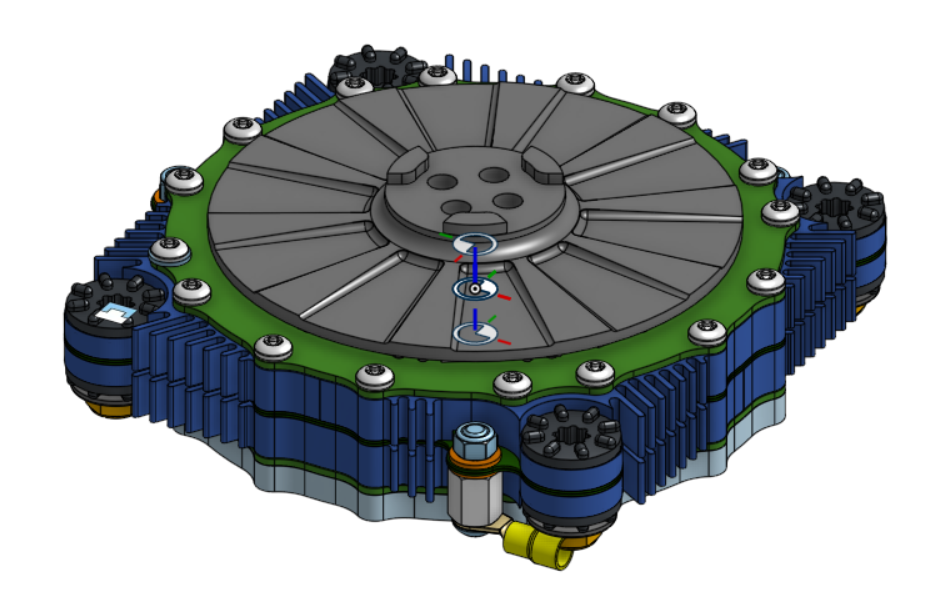
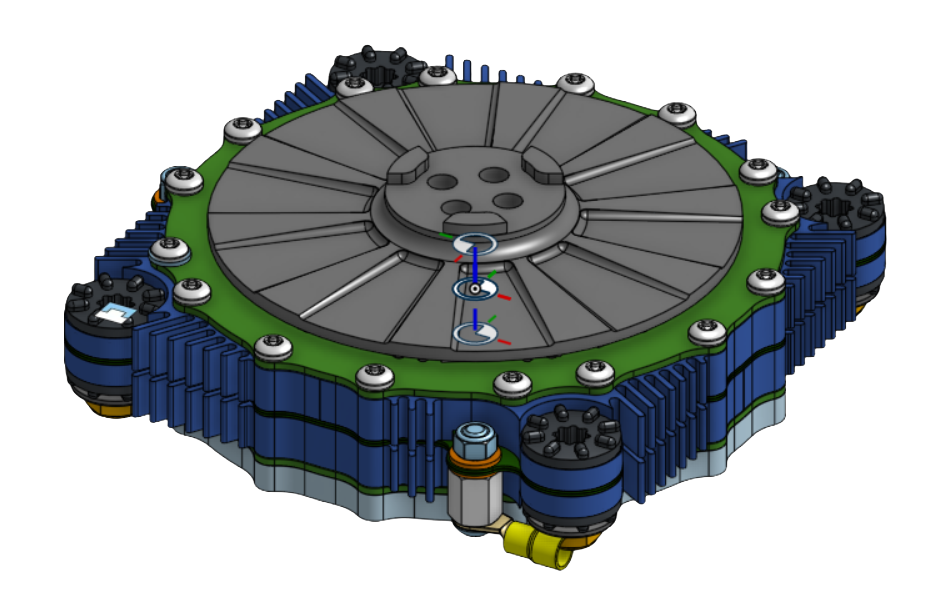
New KRATOS Images
Changed the KRATOS images to ones with transparent backgrounds.

diff --git a/projects/KRATOS.html b/projects/KRATOS.html
@@ -31,10 +31,10 @@
             <div class="splide__track">
                 <ul class="splide__list">
                     <li class="splide__slide">
-                        <img src="https://elijahhaga.github.io/docs/assets/KRATOS 3D Corner.png" height="500" width="500" alt="KRATOS 3D Corner" align="middle"/>
+                        <img src="https://elijahhaga.github.io/docs/assets/KRATOS CAD 3D Corner.png" height="500" width="500" alt="KRATOS 3D Corner" align="middle"/>
                     </li>
                     <li class="splide__slide">
-                        <img src="https://elijahhaga.github.io/docs/assets/KRATOS 3D Front.png" height="475" width="475" alt="KRATOS 3D Front" align="middle"/>
+                        <img src="https://elijahhaga.github.io/docs/assets/KRATOS CAD 3D Front.png" height="475" width="475" alt="KRATOS 3D Front" align="middle"/>
                     </li>
                     <li class="splide__slide">
                         <img src="https://elijahhaga.github.io/docs/assets/KRATOS AFM 3D Corner.png" height="475" width="475" alt="KRATOS AFM 3D Corner" align="middle"/>
